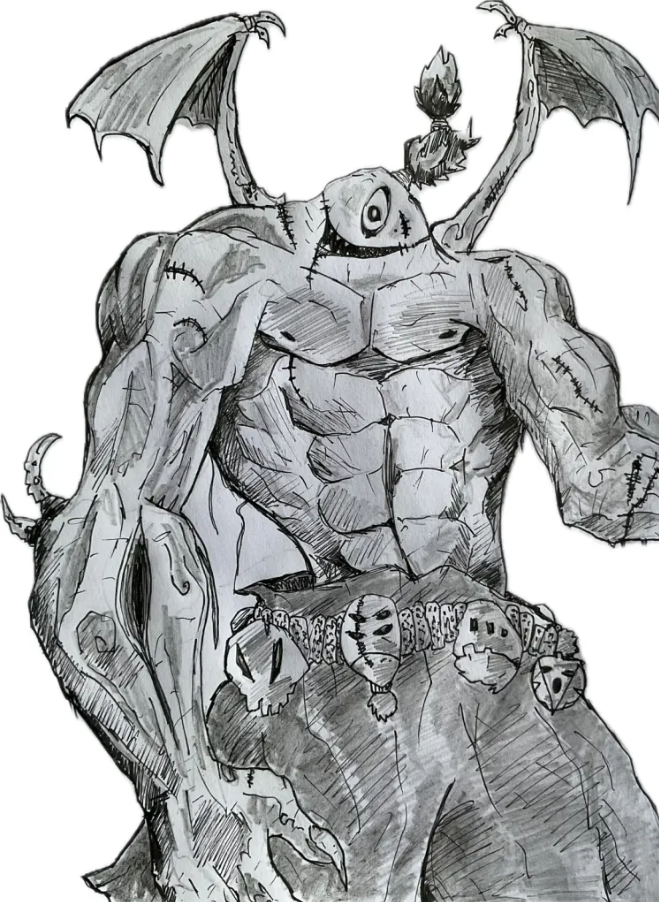
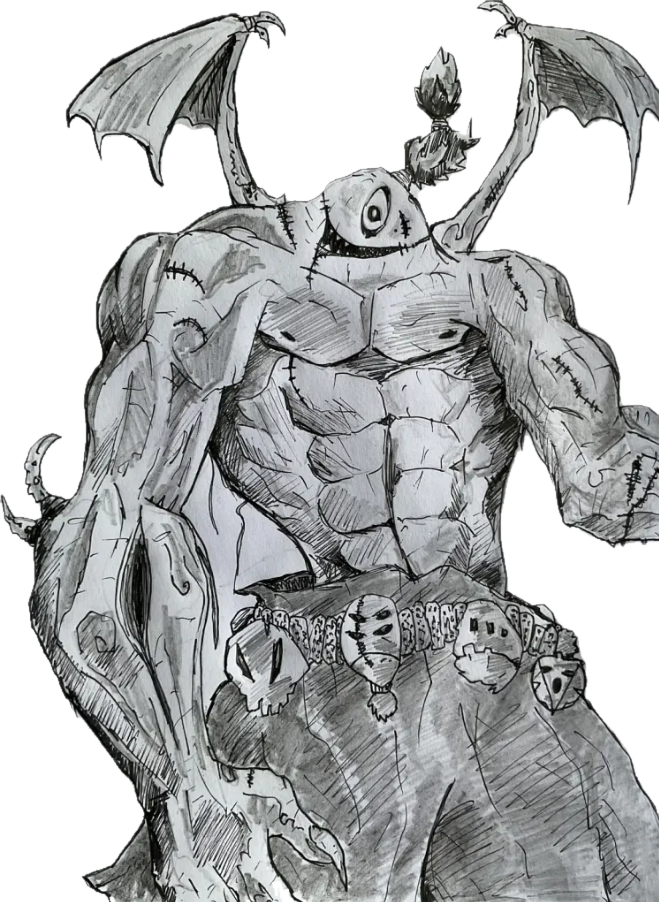
fix(images): détourer un dessin sur papier qui touche un bord (Démon Zombie)
has_white_background demandait les quatre coins blancs : le dessin du
Démon Zombie, coupé en bas, gardait tout son papier (carte, vidéo,
bannière). Désormais : au moins la moitié du pourtour blanche ; seul le
blanc relié au bord est retiré. Image du boss retraitée.

diff --git a/app/shared/image_tools.py b/app/shared/image_tools.py
@@ -12,6 +12,10 @@ from PIL import Image, ImageChops, ImageDraw, ImageFilter, ImageStat
 
 #: Un pixel est du fond s'il est au moins aussi clair que ça sur ses trois couleurs.
 WHITE_LEVEL = 232
+#: Part du pourtour qui doit être blanche pour parler de fond blanc : un dessin
+#: peut toucher un ou deux bords (personnage coupé en bas). Seul le blanc RELIÉ
+#: au bord est retiré, le reste de l'image n'est jamais touché.
+WHITE_BORDER_SHARE = 0.5
 #: Blanc ENFERMÉ dans l'objet (centre d'un anneau, d'une sangle, d'un cadre) :
 #: c'est le fond vu au travers s'il est franc, assez grand et cerné de sombre
 #: (ces images ont un contour encré). Un reflet sur une dent ou une plume
@@ -38,11 +42,20 @@ def shrink(image: Image.Image, max_side: int) -> Image.Image:
 
 
 def has_white_background(image: Image.Image) -> bool:
-    """Fond blanc opaque : les quatre coins sont blancs et sans transparence."""
+    """Fond blanc opaque : au moins `WHITE_BORDER_SHARE` du pourtour est blanc
+    et sans transparence. (Jusqu'au 11/11/2026 : les quatre coins — un dessin
+    coupé en bas, qui touchait un coin, gardait tout son papier.)"""
     rgba = image.convert("RGBA")
     w, h = rgba.size
-    corners = [rgba.getpixel((x, y)) for x in (1, w - 2) for y in (1, h - 2)]
-    return all(a > 200 and min(r, g, b) >= WHITE_LEVEL for r, g, b, a in corners)
+    if w < 4 or h < 4:
+        return False
+    step = max(1, max(w, h) // 200)
+    # Un pixel en retrait : un scan a parfois un liseré sombre sur le bord.
+    points = [(x, y) for x in range(1, w - 1, step) for y in (1, h - 2)] + \
+             [(x, y) for y in range(1, h - 1, step) for x in (1, w - 2)]
+    pixels = rgba.load()
+    white = sum(1 for p in points if pixels[p][3] > 200 and min(pixels[p][:3]) >= WHITE_LEVEL)
+    return white >= WHITE_BORDER_SHARE * len(points)
 
 
 def _background_mask(rgb: Image.Image) -> Image.Image:

diff --git a/tests/domain/test_image_tools.py b/tests/domain/test_image_tools.py
@@ -41,6 +41,22 @@ def test_une_image_deja_transparente_n_est_pas_retouchee():
     assert prepare_item_image(image).getpixel((30, 30))[3] == 255
 
 
+def test_un_dessin_qui_touche_le_bas_garde_son_fond_blanc_detecte():
+    """11/11/2026 (Démon Zombie, dessin au crayon coupé en bas) : un coin pris
+    par le dessin ne doit pas empêcher de retirer le papier."""
+    image = Image.new("RGBA", (300, 400), (255, 255, 255, 255))
+    draw = ImageDraw.Draw(image)
+    draw.rectangle([60, 120, 299, 399], fill=(90, 90, 95, 255), outline=(10, 10, 10, 255), width=4)
+    assert has_white_background(image)
+    out = cut_out_white(image)
+    assert out.getpixel((10, 10))[3] == 0 and out.getpixel((200, 300))[3] == 255
+    # Un fond sombre, ou un objet qui remplit presque tout le cadre : rien.
+    assert not has_white_background(Image.new("RGBA", (300, 400), (30, 30, 30, 255)))
+    full = Image.new("RGBA", (300, 400), (255, 255, 255, 255))
+    ImageDraw.Draw(full).rectangle([0, 0, 299, 330], fill=(90, 90, 95, 255))
+    assert not has_white_background(full)
+
+
 def test_la_reduction_n_agrandit_jamais():
     assert shrink(Image.new("RGB", (100, 50)), 512).size == (100, 50)
     assert shrink(Image.new("RGB", (2048, 1024)), 512).size == (512, 256)

diff --git a/CLAUDE.md b/CLAUDE.md
@@ -334,7 +334,7 @@ On ne tape plus de code d'objet : on parle à quelqu'un.
   - `/skill/<discord_id>` (HTML interactif zoom/pan/hover) + `/api/skill/<discord_id>` (JSON). Le tooltip affiche désormais le **coût du prochain niveau** et la liste des **prérequis** avec leur état (✅ rempli / ❌ manquant). Côté SVG, les arêtes parent → enfant deviennent rouges quand le parent n'est pas encore investi (signal visuel pour guider le joueur vers ce qu'il faut débloquer en premier).
   - **Investir depuis le web** : clic sur une case ⇒ fiche épinglée avec « Investir » (`POST /api/skill/<id>/invest`, même `InvestSkillPointUseCase` que le bot, l'arbre SVG est re-rendu sans recharger). Il faut être connecté : **connexion Discord JOUEUR** ([`webapp/player_auth.py`](webapp/player_auth.py), `/skill/login` / `/skill/logout`) qui RÉUTILISE l'app OAuth et le callback admin (`/admin/auth/callback`) — un cookie `sakura_oauth_next` (ID Discord seul, validé) aiguille le callback vers le parcours joueur. Session joueur = cookie DISTINCT (`sakura_player_session`, autre sel) : jamais de droits admin. On n'investit que dans SON arbre (403 sinon). Le CSRF (vérif d'origine) couvre `/admin` ET `/api/`.
   - `/bestiary` (HTML public, vitrine du jeu) + `/api/bestiary` (JSON). Liste tous les mobs avec stats / drops / power score / rang calculé.
-  - `/admin/*` (interface admin protégée par OAuth Discord). Routers dans [`webapp/admin/routers/`](webapp/admin/routers/) — `auth_router` (login/callback/logout), `dashboard_router` (home + 10 stubs), `items_router` et `mobs_router` (CRUD complet **avec** delete). **Objets › Images en lot** (`/admin/items/images`, [`images.html`](webapp/templates/admin/items/images.html), 03/11/2026, demande de l'auteur) : on lâche toutes les images d'un coup (rangées seules si le fichier porte le code ou le nom de l'objet, sinon un bac : clic image puis objet, ou glisser), UN bouton Enregistrer — une requête par image (le proxy nginx limite à 10 Mo), puis UN seul commit (`/images/push`) ; n'écrit QUE l'image, jamais la fiche (enregistrer les fiches pour changer leur image avait effacé les stats en % de 11 pièces, le formulaire ignorait `*_pct`). Toute image d'objet est réduite à 512 px et détourée si elle est sur fond blanc (`app/shared/image_tools.py` : fond relié au bord, plus les trous francs cernés de sombre ; un reflet ou une plume blanche restent) ; un monstre à 1 024 px. `scripts/optimize_images.py` refait ce travail sur les images déjà rangées. Tests : [`test_admin_items_images.py`](tests/webapp/test_admin_items_images.py). Le contenu JSON (titres, quêtes, world boss) : `titles_router`, `quests_router`, `world_bosses_router` + outils partagés [`_content_common.py`](webapp/admin/routers/_content_common.py) — DÉCOUPÉS de l'ancien `content_router.py` le 26/10/2026 (roadmap N6) ; `/admin/skill-tree` redirige vers le builder (`skill_builder_router`). Tests : [`test_admin_content_crud.py`](tests/webapp/test_admin_content_crud.py) (création / édition / suppression sur une copie du contenu, préservation de l'effet d'un consommable et de l'apparence d'un cosmétique) + `test_admin_pages_smoke.py` (toutes les pages GET). **Mobs reseed-safe** : create/edit écrivent la DB **ET** `mobs.json` (via `content_sync.build_mob_dict`/`upsert_mob_json`, comme les items) — un mob créé/édité au site survit au reseed. Le mob a tous les champs (nom, code, stats, image, élément, famille, drops via éditeur de lignes). **Upload d'image** depuis le site (`webapp/admin/uploads.py`, multipart) : l'image du mob s'uploade et est sauvée dans `assets/mobs/<code>.<ext>` (idem décor de zone → `assets/landscapes/`) ; validée (png/jpg/webp/gif, ≤ 8 Mo), servie via le mount `/assets`, git-pushée avec le contenu (assets trackés → survivent au déploiement). `zones_router` (CRUD des **zones de farm** → `farm_zones.json` zone-centré : nom, channel_id, familles[], décor, fourchette d'essences min/max) et `families_router` (vue d'ensemble read-only : famille → mobs + zone + drop commun). ⚠ Un changement de zone nécessite un **restart du bot** (process séparé, cache module-level `farm_zone_loader`). Auth : session signée via `itsdangerous` (cookie `sakura_admin_session`, 7j). Vérifie `discord_id ∈ settings.admin_ids`. Templates Jinja2 dans [`webapp/templates/admin/`](webapp/templates/admin/), CSS Sakura pastel rose/violet avec dark mode (toggle Alpine.js stocké en `localStorage`). **Visionneuse d'images** (11/11/2026, demande de l'auteur) : un clic sur une image de n'importe quelle page l'affiche en grand (damier pour la transparence, ← → entre les images de la page, Échap, « Ouvrir l'original », « Ouvrir la fiche » si l'image est dans un lien ; Ctrl+clic suit le lien) — `admin.js`, écouteur en phase de CAPTURE ; ignorées : images d'un bouton / label, éditeurs où l'on fait glisser (`x-on:mousedown`, `draggable`), icônes de moins de 28 px, `data-no-zoom` (page Images en lot). `admin.css` / `admin.js` portent `?v=` dans `base.html` : le changer à chaque modification.
+  - `/admin/*` (interface admin protégée par OAuth Discord). Routers dans [`webapp/admin/routers/`](webapp/admin/routers/) — `auth_router` (login/callback/logout), `dashboard_router` (home + 10 stubs), `items_router` et `mobs_router` (CRUD complet **avec** delete). **Objets › Images en lot** (`/admin/items/images`, [`images.html`](webapp/templates/admin/items/images.html), 03/11/2026, demande de l'auteur) : on lâche toutes les images d'un coup (rangées seules si le fichier porte le code ou le nom de l'objet, sinon un bac : clic image puis objet, ou glisser), UN bouton Enregistrer — une requête par image (le proxy nginx limite à 10 Mo), puis UN seul commit (`/images/push`) ; n'écrit QUE l'image, jamais la fiche (enregistrer les fiches pour changer leur image avait effacé les stats en % de 11 pièces, le formulaire ignorait `*_pct`). Toute image d'objet est réduite à 512 px et détourée si elle est sur fond blanc (`app/shared/image_tools.py` : fond relié au bord, plus les trous francs cernés de sombre ; un reflet ou une plume blanche restent) — « fond blanc » = au moins la moitié du pourtour blanc (`WHITE_BORDER_SHARE`, 11/11/2026 : avant, les quatre coins, et un dessin au crayon coupé en bas gardait son papier) ; un monstre à 1 024 px. `scripts/optimize_images.py` refait ce travail sur les images déjà rangées. Tests : [`test_admin_items_images.py`](tests/webapp/test_admin_items_images.py). Le contenu JSON (titres, quêtes, world boss) : `titles_router`, `quests_router`, `world_bosses_router` + outils partagés [`_content_common.py`](webapp/admin/routers/_content_common.py) — DÉCOUPÉS de l'ancien `content_router.py` le 26/10/2026 (roadmap N6) ; `/admin/skill-tree` redirige vers le builder (`skill_builder_router`). Tests : [`test_admin_content_crud.py`](tests/webapp/test_admin_content_crud.py) (création / édition / suppression sur une copie du contenu, préservation de l'effet d'un consommable et de l'apparence d'un cosmétique) + `test_admin_pages_smoke.py` (toutes les pages GET). **Mobs reseed-safe** : create/edit écrivent la DB **ET** `mobs.json` (via `content_sync.build_mob_dict`/`upsert_mob_json`, comme les items) — un mob créé/édité au site survit au reseed. Le mob a tous les champs (nom, code, stats, image, élément, famille, drops via éditeur de lignes). **Upload d'image** depuis le site (`webapp/admin/uploads.py`, multipart) : l'image du mob s'uploade et est sauvée dans `assets/mobs/<code>.<ext>` (idem décor de zone → `assets/landscapes/`) ; validée (png/jpg/webp/gif, ≤ 8 Mo), servie via le mount `/assets`, git-pushée avec le contenu (assets trackés → survivent au déploiement). `zones_router` (CRUD des **zones de farm** → `farm_zones.json` zone-centré : nom, channel_id, familles[], décor, fourchette d'essences min/max) et `families_router` (vue d'ensemble read-only : famille → mobs + zone + drop commun). ⚠ Un changement de zone nécessite un **restart du bot** (process séparé, cache module-level `farm_zone_loader`). Auth : session signée via `itsdangerous` (cookie `sakura_admin_session`, 7j). Vérifie `discord_id ∈ settings.admin_ids`. Templates Jinja2 dans [`webapp/templates/admin/`](webapp/templates/admin/), CSS Sakura pastel rose/violet avec dark mode (toggle Alpine.js stocké en `localStorage`). **Visionneuse d'images** (11/11/2026, demande de l'auteur) : un clic sur une image de n'importe quelle page l'affiche en grand (damier pour la transparence, ← → entre les images de la page, Échap, « Ouvrir l'original », « Ouvrir la fiche » si l'image est dans un lien ; Ctrl+clic suit le lien) — `admin.js`, écouteur en phase de CAPTURE ; ignorées : images d'un bouton / label, éditeurs où l'on fait glisser (`x-on:mousedown`, `draggable`), icônes de moins de 28 px, `data-no-zoom` (page Images en lot). `admin.css` / `admin.js` portent `?v=` dans `base.html` : le changer à chaque modification.
   - **Config OAuth** ([`settings.py`](app/infrastructure/config/settings.py)) : `discord_client_id`, `discord_client_secret`, `oauth_redirect_uri`, `admin_session_secret`. À ajouter dans `.env` du VPS + déclarer le redirect URI exact dans Discord Developer Portal (OAuth2 → Redirects). En cas de rotation du secret, redéployer.
   - **Ordre de montage** des routers dans [`webapp/main.py`](webapp/main.py) : `auth` → `items` → `mobs` → `zones` → `familles` → `shop` → `players` → `roles` → `actions` → `titles` / `quests` / `world_bosses` → `offering` / `cards` / `seasonal` / `pacing` → `dashboard` (fallback, monté en dernier). Toutes les sous-routes doivent être montées avant le dashboard.
   - **Déploiement** : la webapp tourne dans un service systemd SÉPARÉ (`sakura-webapp.service`, port 8001) ; `deploy_beta.sh` ne redémarre QUE `sakura-bot`. Après un changement webapp (nouveaux routers/templates), faire `sudo systemctl restart sakura-webapp` sur le VPS.
